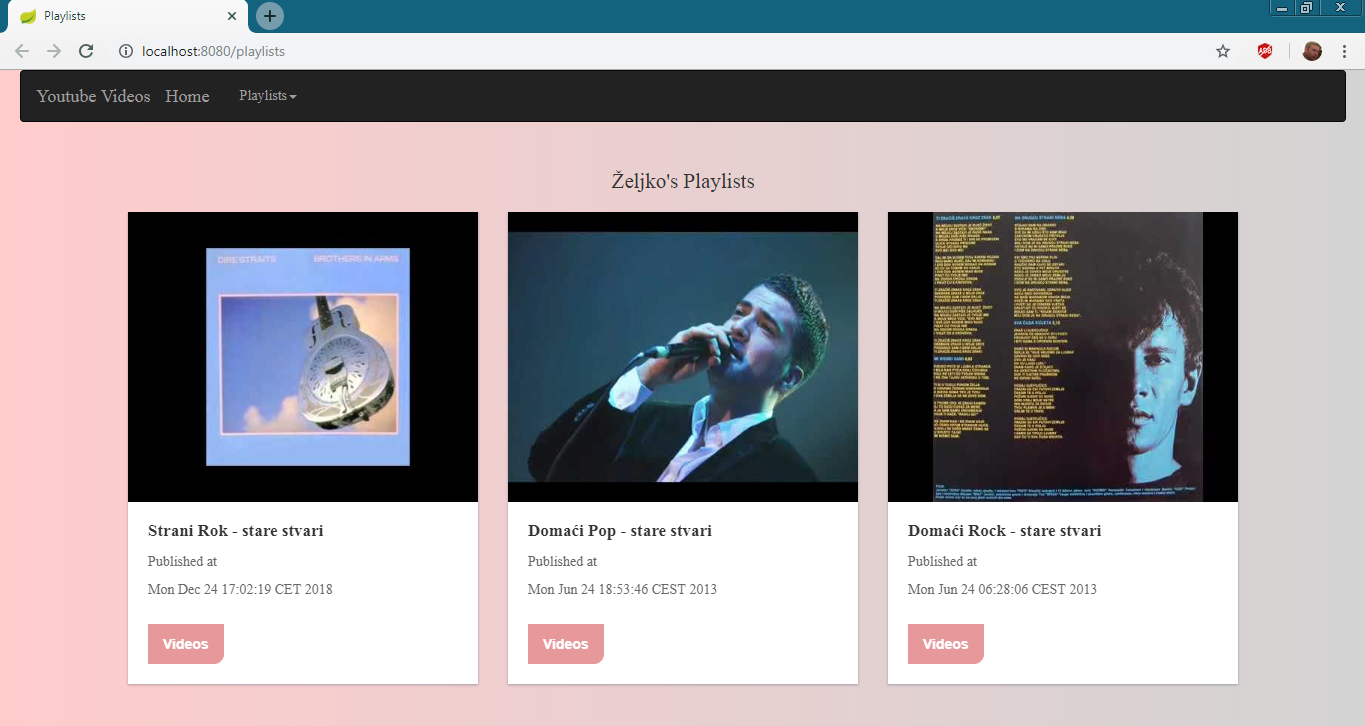
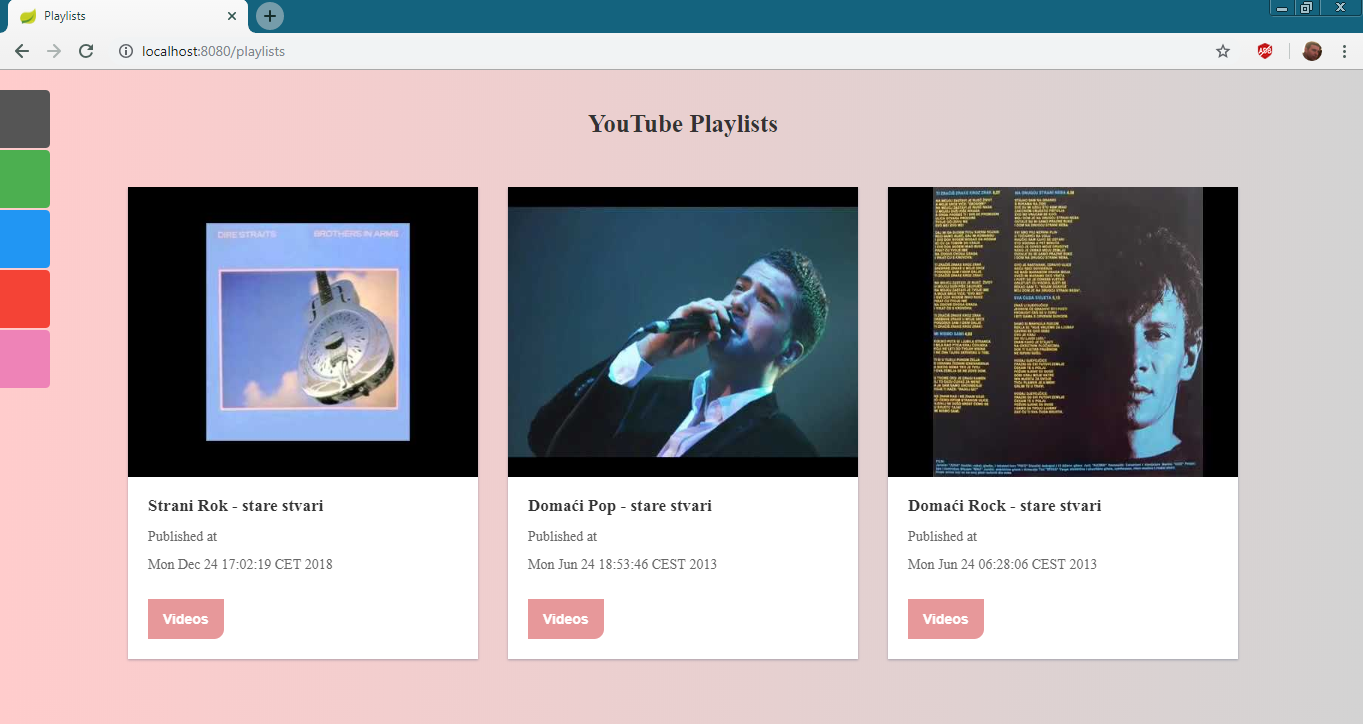
change navbar

Changed region(s): [[0.0924, 0.2431, 0.9244, 0.942], [0.0, 0.0608, 0.9861, 0.547], [0.9244, 0.0, 1.0, 0.0304]]

diff --git a/src/main/resources/templates/playlists.html b/src/main/resources/templates/playlists.html
@@ -18,34 +18,13 @@
     <script type="text/javascript" src="https://cdnjs.cloudflare.com/ajax/libs/owl-carousel/1.3.3/owl.carousel.min.js"></script>
 
     <link rel="stylesheet" th:href="@{/css/playlist.css}"/>
+    <link rel="stylesheet" th:href="@{/css/leftnav.css}"/>
     <script th:src="@{/js/playlist.js}"></script>
 </head>
 <body>
-<nav class="navbar navbar-inverse" style="margin-left: 20px; margin-right: 20px">
-    <div class="container-fluid">
-        <div class="navbar-header">
-            <a class="navbar-brand" style="font-family: 'sans-serif'" href="#">Youtube Videos</a>
-        </div>
-        <div class="nav navbar-nav">
-            <a class="navbar-brand" style="font-family: 'sans-serif'" href="#">Home</a>
-        </div>
-        <ul class="nav navbar-nav">
-            <li class="dropdown" style="font-family: 'sans-serif'">
-                <a href="#" class="dropdown-toggle" data-toggle="dropdown" role="button" aria-haspopup="true"
-                   aria-expanded="false">Playlists<span class="caret"></span></a>
-                <ul class="dropdown-menu">
-                    <li><a th:href="@{/playlist/PLe8D_ZQyQeDV-lEoCmTz6HO9GHe_T7kTN}">Domaći Pop - stare stvari</a></li>
-                    <li><a th:href="@{/playlist/PLe8D_ZQyQeDVoSSNX8jop9FCOuA-kGsHm}">Domaći Rok - stare stvari</a></li>
-                    <li><a th:href="@{/playlist/PLe8D_ZQyQeDV8GK6Ck3ZM4kFXDkR_j882}">Strani Pop - stare stvari</a></li>
-                    <li><a th:href="@{/playlist/PLe8D_ZQyQeDWhiwxi3p8CCy178sCpUsGT}">Strani Rok - stare stvari</a></li>
-                </ul>
-            </li>
-        </ul>
-    </div>
-</nav>
 <div class="demo">
     <div class="container">
-        <h3 class="h3" style="font-size: 21px; font-family: 'sans-serif'">Željko's Playlists </h3>
+        <h2 style="text-align: center; font-weight: bold; margin-top: 40px; margin-bottom: 50px; font-size: 25px; font-family: 'sans-serif'">YouTube Playlists </h2>
         <div class="row">
 
             <div class="col-md-12">
@@ -70,6 +49,13 @@
             </div>
         </div>
     </div>
+</div>
+<div id="mySidenav" class="sidenav">
+    <a href="#" id="h">Home</a>
+    <a th:href="@{/playlist/PLe8D_ZQyQeDV-lEoCmTz6HO9GHe_T7kTN}" id="dp">Domaći Pop - stare stvari</a>
+    <a th:href="@{/playlist/PLe8D_ZQyQeDVoSSNX8jop9FCOuA-kGsHm}" id="dr">Domaći Rok - stare stvari</a>
+    <a th:href="@{/playlist/PLe8D_ZQyQeDV8GK6Ck3ZM4kFXDkR_j882}" id="sp">Strani Pop - stare stvari</a>
+    <a th:href="@{/playlist/PLe8D_ZQyQeDWhiwxi3p8CCy178sCpUsGT}" id="sr">Strani Rok - stare stvari</a>
 </div>
 </body>
 </html>

diff --git a/src/main/resources/templates/playlist.html b/src/main/resources/templates/playlist.html
@@ -10,29 +10,11 @@
     <script src="https://cdnjs.cloudflare.com/ajax/libs/popper.js/1.14.3/umd/popper.min.js"></script>
     <script src="https://maxcdn.bootstrapcdn.com/bootstrap/3.3.7/js/bootstrap.min.js"></script>
     <script src="https://ajax.googleapis.com/ajax/libs/jquery/1.12.4/jquery.min.js"></script>
+
+    <link rel="stylesheet" th:href="@{/css/playlist.css}"/>
+    <link rel="stylesheet" th:href="@{/css/leftnav.css}"/>
 </head>
 <body>
- <nav class="navbar navbar-inverse" style="margin-left: 20px; margin-right: 20px">
-     <div class="container-fluid">
-         <div class="navbar-header">
-             <a class="navbar-brand" style="font-family: 'sans-serif'" href="#">Youtube Videos</a>
-         </div>
-         <div class="nav navbar-nav">
-             <a class="navbar-brand" style="font-family: 'sans-serif'" th:href="@{/playlists}">Home</a>
-         </div>
-         <ul class="nav navbar-nav">
-             <li class="dropdown" style="font-family: 'sans-serif'">
-                 <a href="#" class="dropdown-toggle" data-toggle="dropdown" role="button" aria-haspopup="true" aria-expanded="false">Playlists<span class="caret"></span></a>
-                 <ul class="dropdown-menu">
-                     <li><a th:href="@{/playlist/PLe8D_ZQyQeDV-lEoCmTz6HO9GHe_T7kTN}">Domaći Pop - stare stvari</a></li>
-                     <li><a th:href="@{/playlist/PLe8D_ZQyQeDVoSSNX8jop9FCOuA-kGsHm}">Domaći Rok - stare stvari</a></li>
-                     <li><a th:href="@{/playlist/PLe8D_ZQyQeDV8GK6Ck3ZM4kFXDkR_j882}">Strani Pop - stare stvari</a></li>
-                     <li><a th:href="@{/playlist/PLe8D_ZQyQeDWhiwxi3p8CCy178sCpUsGT}">Strani Rok - stare stvari</a></li>
-                 </ul>
-             </li>
-         </ul>
-     </div>
- </nav>
 <div class="container">
     <h2 style="margin-bottom: 40px; font-family: 'sans-serif'"><span th:text="${title}"></span></h2>
     <div class="row" style="margin-left: 6px">
@@ -48,6 +30,13 @@
             </div>
         </div>
     </div>
+</div>
+<div id="mySidenav" class="sidenav">
+    <a th:href="@{/playlists}" id="h">Home</a>
+    <a th:href="@{/playlist/PLe8D_ZQyQeDV-lEoCmTz6HO9GHe_T7kTN}" id="dp">Domaći Pop - stare stvari</a>
+    <a th:href="@{/playlist/PLe8D_ZQyQeDVoSSNX8jop9FCOuA-kGsHm}" id="dr">Domaći Rok - stare stvari</a>
+    <a th:href="@{/playlist/PLe8D_ZQyQeDV8GK6Ck3ZM4kFXDkR_j882}" id="sp">Strani Pop - stare stvari</a>
+    <a th:href="@{/playlist/PLe8D_ZQyQeDWhiwxi3p8CCy178sCpUsGT}" id="sr">Strani Rok - stare stvari</a>
 </div>
 </body>
 </html>

diff --git a/src/main/resources/static/css/leftnav.css b/src/main/resources/static/css/leftnav.css
@@ -1,0 +1,40 @@
+#mySidenav a {
+    position: absolute;
+    left: -300px;
+    transition: 0.3s;
+    padding: 15px;
+    width: 350px;
+    text-decoration: none;
+    font-size: 20px;
+    color: white;
+    border-radius: 0 5px 5px 0;
+}
+
+#mySidenav a:hover {
+    left: 0;
+}
+
+#h {
+    top: 20px;
+    background-color: #555
+}
+
+#dp {
+    top: 80px;
+    background-color: #4CAF50;
+}
+
+#dr {
+    top: 140px;
+    background-color: #2196F3;
+}
+
+#sp {
+    top: 200px;
+    background-color: #f44336;
+}
+
+#sr {
+    top: 260px;
+    background-color: #ee83b7
+}

diff --git a/src/main/resources/static/css/playlist.css b/src/main/resources/static/css/playlist.css
@@ -87,4 +87,3 @@ h3.h3{text-align:center;padding:0.4em 0em;font-size:1.5em;}
     background: #c87a7c;
     text-decoration: none;
 }
-
